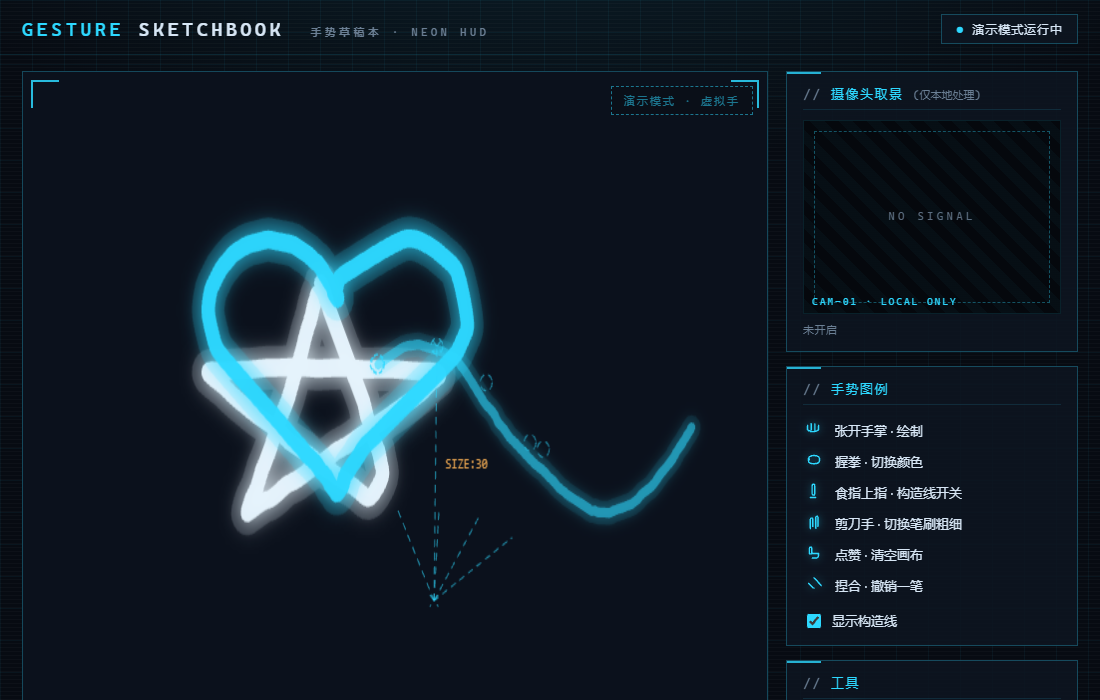
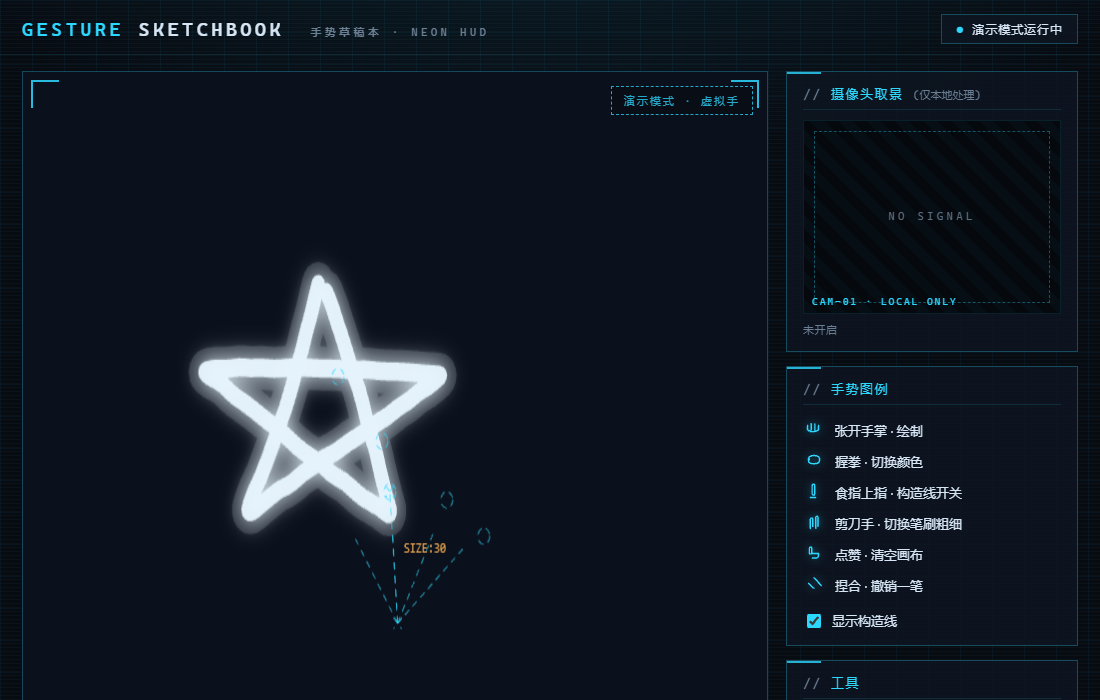
feat: 花开绽放效果——捏合聚合成六瓣花（泪滴瓣形/金色花芯/渐变花瓣），松开消散；演示时间轴与素材同步

diff --git a/js/effects.js b/js/effects.js
@@ -24,6 +24,17 @@
 
 import { CONFIG } from "./config.js";
 
+// 花瓣颜色：花芯金黄，越往外越从粉紫过渡到蓝紫；瓣尖更亮
+function petalColor(t) {
+  if (t < 0.16) return "#ffd27a";
+  const hue = 335 - (t - 0.16) * 140;
+  const light = 56 + t * 22;
+  return `hsl(${hue.toFixed(0)}, 95%, ${light.toFixed(0)}%)`;
+}
+
+// 花开绽放的会话状态（同一时间只有一朵花）
+let bloom = null;
+
 export const EFFECTS = {
   Open_Palm: {
     label: "绘制流",
@@ -124,19 +135,80 @@ export const EFFECTS = {
   },
 
   Thumb_Index: {
-    label: "引力奇点",
-    en: "WELL",
-    hint: "捏合产生引力点吸聚粒子",
+    label: "花开绽放",
+    en: "BLOOM",
+    hint: "捏合聚合成花，松开消散",
     glyph: "M6 10 L10 14 M10 14 Q11.5 15.5 12 15.5 M12 4 L15 7 M15 7 Q16.5 8.5 16.5 9 M16.5 9 L20 13",
     onEnter(hand, ps) {
-      ps.attractors.push({ x: hand.tip.x, y: hand.tip.y, r: 270, strength: 1400 });
+      bloom = { cx: hand.tip.x, cy: hand.tip.y, rot: Math.random() * Math.PI * 2, grow: 0, seeds: [] };
+      // 每瓣固定长度 => 剪影均匀；金芯实心盘 => 视觉锚点
+      const petalLen = [];
+      for (let k = 0; k < 6; k++) petalLen.push(0.94 + Math.random() * 0.16);
+      const N = 900;
+      for (let i = 0; i < N; i++) {
+        const core = i < 150;
+        const petal = Math.floor(Math.random() * 6);
+        let t, a, r, color, size;
+        if (core) {
+          // 金色花芯：实心盘，视觉中心
+          t = 0.03 + Math.random() * 0.09;
+          a = Math.random() * Math.PI * 2;
+          r = 3 + Math.random() * 26;
+          color = Math.random() < 0.3 ? "#fff3d6" : "#ffd27a";
+          size = 1.8 + Math.random() * 1.6;
+        } else {
+          // 泪滴形花瓣：瓣根窄、瓣中最宽、瓣尖收拢，瓣间留出明显间隙
+          t = 0.14 + Math.pow(Math.random(), 0.8) * 0.86;
+          const half = 0.05 + 0.26 * Math.pow(Math.sin(Math.PI * Math.min(1, t * 1.06)), 0.8);
+          a = petal * (Math.PI / 3) + (Math.random() - 0.5) * 2 * half + (Math.random() - 0.5) * 0.015;
+          r = 30 + t * 150 * petalLen[petal] * (0.92 + Math.random() * 0.16);
+          color = petalColor(t);
+          size = 1.5 + Math.random() * 1.1;
+        }
+        const seed = { a, r, t };
+        bloom.seeds.push(seed);
+        ps.spawn({
+          x: hand.tip.x + (Math.random() - 0.5) * 36,
+          y: hand.tip.y + (Math.random() - 0.5) * 36,
+          vx: (Math.random() - 0.5) * 140, vy: (Math.random() - 0.5) * 140,
+          life: 6, size,
+          color, gravity: 0, drag: 0.9,
+          tx: hand.tip.x, ty: hand.tip.y, stiff: 13 + Math.random() * 9,
+          seed,
+        });
+      }
+      ps.burst(hand.tip.x, hand.tip.y, 120, { color: hand.color, speed: [50, 200], life: [0.8, 1.6] });
     },
     onFrame(hand, ps) {
-      const a = ps.attractors[0];
-      if (a) { a.x = hand.tip.x; a.y = hand.tip.y; }
+      if (!bloom) return;
+      // 花心跟随捏合点；花朵随时间绽放并缓慢旋转
+      bloom.cx += (hand.tip.x - bloom.cx) * 0.12;
+      bloom.cy += (hand.tip.y - bloom.cy) * 0.12;
+      bloom.grow = Math.min(1, bloom.grow + 0.011);
+      bloom.rot += 0.0018;
+      for (const p of ps.parts) {
+        if (!p.seed) continue;
+        const s = p.seed;
+        const grow = Math.min(1, (bloom.grow * 1.25 - 0.1) * (1.2 - s.t * 0.25)); // 由内向外开
+        const r = s.r * Math.max(0.12, grow);
+        p.tx = bloom.cx + Math.cos(s.a + bloom.rot) * r;
+        p.ty = bloom.cy + Math.sin(s.a + bloom.rot) * r * 0.94;
+        p.life = Math.max(p.life, p.maxLife * 0.7); // 捏着不放就一直活着
+      }
     },
     onExit(hand, ps) {
-      ps.attractors.length = 0;
+      // 消散：解除弹簧目标，向外轻抛，颜色渐隐
+      for (const p of ps.parts) {
+        if (!p.seed) continue;
+        p.tx = null; p.ty = null;
+        const dx = p.x - (bloom ? bloom.cx : p.x);
+        const dy = p.y - (bloom ? bloom.cy : p.y);
+        const d = Math.hypot(dx, dy) || 1;
+        p.vx += (dx / d) * (50 + Math.random() * 170);
+        p.vy += (dy / d) * (50 + Math.random() * 170) - 20;
+        p.life = Math.min(p.life, 1.0 + Math.random() * 1.0);
+      }
+      bloom = null;
     },
   },
 };

diff --git a/js/particles.js b/js/particles.js
@@ -50,6 +50,9 @@ export class ParticleSystem {
       size: o.size || 2,
       gravity: o.gravity ?? CONFIG.particles.gravity,
       drag: o.drag ?? 0.94, // 每帧速度保留比例（帧率归一到 60fps）
+      tx: o.tx ?? null, ty: o.ty ?? null, // 弹簧目标点（聚合成形用，如花开绽放）
+      stiff: o.stiff || 0,                // 弹簧刚度：越大聚合越快
+      seed: o.seed || null,               // 效果自定义数据（如花瓣参数）
     });
   }
 
@@ -121,6 +124,12 @@ export class ParticleSystem {
         }
       }
 
+      // 弹簧追踪：粒子飞向目标点（聚合成形：花开绽放等）
+      if (p.tx != null) {
+        p.vx += (p.tx - p.x) * p.stiff * dt;
+        p.vy += (p.ty - p.y) * p.stiff * dt;
+      }
+
       // 积分
       p.vy += p.gravity * dt;
       const keep = Math.pow(p.drag, dt * 60);
@@ -132,7 +141,9 @@ export class ParticleSystem {
   }
 
   /**
-   * 渲染：拖影层淡出+叠加粒子 -> 主画布清屏合成 -> HUD 叠加（不残留重影）
+   * 渲染：拖影层淡出+叠加粒子 -> 主画布合成 -> 聚合粒子实色绘制 -> HUD
+   * 聚合粒子（带 seed）密度高，若进加色拖影层会过曝成白，因此：
+   *   主层用正常混合画实色（花形清晰），拖影层只加一点低强度辉光。
    * @param {(ctx: CanvasRenderingContext2D) => void} [hud] 手部 HUD 绘制回调
    */
   render(hud) {
@@ -142,13 +153,25 @@ export class ParticleSystem {
     tctx.fillRect(0, 0, this.w, this.h);
 
     tctx.globalCompositeOperation = "lighter";
+    const seeded = [];
     for (const p of this.parts) {
       const t = p.life / p.maxLife;
-      tctx.globalAlpha = Math.min(1, t * 1.6);
-      tctx.fillStyle = p.color;
-      tctx.beginPath();
-      tctx.arc(p.x, p.y, Math.max(0.4, p.size * (0.5 + t * 0.5)), 0, Math.PI * 2);
-      tctx.fill();
+      const a = Math.min(1, t * 1.6);
+      if (p.seed) {
+        seeded.push([p, a]);
+        // 低强度辉光进拖影层，避免密集粒子互相加成过曝
+        tctx.globalAlpha = a * 0.08;
+        tctx.fillStyle = p.color;
+        tctx.beginPath();
+        tctx.arc(p.x, p.y, p.size * 1.8, 0, Math.PI * 2);
+        tctx.fill();
+      } else {
+        tctx.globalAlpha = a;
+        tctx.fillStyle = p.color;
+        tctx.beginPath();
+        tctx.arc(p.x, p.y, Math.max(0.4, p.size * (0.5 + t * 0.5)), 0, Math.PI * 2);
+        tctx.fill();
+      }
     }
     tctx.globalAlpha = 1;
     tctx.globalCompositeOperation = "source-over";
@@ -156,6 +179,17 @@ export class ParticleSystem {
     const ctx = this.ctx;
     ctx.clearRect(0, 0, this.w, this.h);
     ctx.drawImage(this.trail, 0, 0, this.w, this.h);
+
+    // 聚合粒子：主画布实色，花形清晰可辨
+    ctx.globalCompositeOperation = "source-over";
+    for (const [p, a] of seeded) {
+      ctx.globalAlpha = Math.min(1, a * 0.95);
+      ctx.fillStyle = p.color;
+      ctx.beginPath();
+      ctx.arc(p.x, p.y, Math.max(0.6, p.size * 0.95), 0, Math.PI * 2);
+      ctx.fill();
+    }
+    ctx.globalAlpha = 1;
 
     if (hud) hud(ctx);
   }

diff --git a/js/demo.js b/js/demo.js
@@ -6,14 +6,13 @@
 // ============================================================
 
 const SEGMENTS = [
-  { t0: 0.2,  t1: 3.6,  gesture: "Open_Palm",   path: "star",  at: { x: 0.52, y: 0.50 } },
-  { t0: 3.6,  t1: 4.4,  gesture: "Closed_Fist", at: { x: 0.55, y: 0.48 } },
-  { t0: 4.4,  t1: 5.2,  gesture: "Pointing_Up", at: { x: 0.52, y: 0.46 } },
-  { t0: 5.2,  t1: 8.4,  gesture: "Open_Palm",   path: "heart", at: { x: 0.50, y: 0.42 } },
-  { t0: 8.4,  t1: 9.2,  gesture: "Victory",     at: { x: 0.50, y: 0.48 } },
-  { t0: 9.2,  t1: 12.4, gesture: "Open_Palm",   path: "wave",  at: { x: 0.50, y: 0.52 } },
-  { t0: 12.4, t1: 13.2, gesture: "Thumb_Up",    at: { x: 0.55, y: 0.45 } },
-  { t0: 13.2, t1: 15.5, gesture: "None",        at: { x: 0.5,  y: 0.5 } },
+  { t0: 0.2,  t1: 3.4,  gesture: "Open_Palm",   path: "star",  at: { x: 0.52, y: 0.50 } },
+  { t0: 3.4,  t1: 4.2,  gesture: "Closed_Fist", at: { x: 0.55, y: 0.48 } },
+  { t0: 4.2,  t1: 5.0,  gesture: "Pointing_Up", at: { x: 0.52, y: 0.46 } },
+  { t0: 5.0,  t1: 8.2,  gesture: "Open_Palm",   path: "heart", at: { x: 0.50, y: 0.42 } },
+  { t0: 8.2,  t1: 9.0,  gesture: "Victory",     at: { x: 0.50, y: 0.48 } },
+  { t0: 9.0,  t1: 14.2, gesture: "Thumb_Index", at: { x: 0.50, y: 0.46 } },
+  { t0: 14.2, t1: 16.5, gesture: "None",        at: { x: 0.5,  y: 0.5 } },
 ];
 
 // 手部关键点模板（单位坐标，y 向下为正在画布上的方向）
@@ -30,6 +29,14 @@ const POSES = {
     0: [0, 0.60],
     1: [-0.20, 0.42], 2: [-0.18, 0.32], 3: [-0.10, 0.27], 4: [-0.02, 0.25],
     5: [0.16, 0.30], 6: [0.21, 0.26], 7: [0.23, 0.21], 8: [0.24, 0.17],
+    9: [0.00, 0.28], 10: [0.02, 0.24], 11: [0.02, 0.19], 12: [0.02, 0.15],
+    13: [-0.16, 0.30], 14: [-0.19, 0.26], 15: [-0.20, 0.21], 16: [-0.21, 0.17],
+    17: [-0.29, 0.34], 18: [-0.33, 0.32], 19: [-0.35, 0.30], 20: [-0.36, 0.29],
+  },
+  pinch: {
+    0: [0, 0.60],
+    1: [-0.20, 0.42], 2: [-0.24, 0.32], 3: [-0.16, 0.18], 4: [0.06, -0.04],
+    5: [0.16, 0.28], 6: [0.20, 0.06], 7: [0.22, -0.10], 8: [0.23, -0.26],
     9: [0.00, 0.28], 10: [0.02, 0.24], 11: [0.02, 0.19], 12: [0.02, 0.15],
     13: [-0.16, 0.30], 14: [-0.19, 0.26], 15: [-0.20, 0.21], 16: [-0.21, 0.17],
     17: [-0.29, 0.34], 18: [-0.33, 0.32], 19: [-0.35, 0.30], 20: [-0.36, 0.29],
@@ -91,7 +98,7 @@ function pathPoint(kind, t, seg) {
   return { x: seg.at.x, y: seg.at.y };
 }
 
-const POSE_NAME = { Open_Palm: "open", Closed_Fist: "fist", Pointing_Up: "point", Victory: "victory", Thumb_Up: "thumb", None: "open" };
+const POSE_NAME = { Open_Palm: "open", Closed_Fist: "fist", Pointing_Up: "point", Victory: "victory", Thumb_Up: "thumb", Thumb_Index: "pinch", None: "open" };
 
 // 生成 21 个关键点：模板 + 缩放 + 位置 + 轻微呼吸抖动
 function buildHand(x, y, gesture, t) {

diff --git a/js/app.js b/js/app.js
@@ -197,7 +197,8 @@ function drawHud(ctx, hand) {
   const wrist = P(0), midTip = P(12);
   ctx.font = '11px Consolas, "Cascadia Code", monospace';
   ctx.fillStyle = "rgba(255, 180, 84, .9)";
-  ctx.fillText(`SIZE:${Math.round(hand.size * 100)}`, (wrist.x + midTip.x) / 2 + 10, (wrist.y + midTip.y) / 2 - 4);
+  // 读数标注放在手腕附近，避免压住花心等画面主体
+  ctx.fillText(`SIZE:${Math.round(hand.size * 100)}`, wrist.x + 12, wrist.y + 16);
   ctx.restore();
 }
 

diff --git a/README.md b/README.md
@@ -1,6 +1,6 @@
 # 手势草稿本 · Gesture Sketchbook
 
-用摄像头手势驱动霓虹粒子的 Web 应用（默认粒子模式，可一键切回笔迹模式）。张开手掌 = 指尖喷出粒子流，握拳 = 能量爆发，点赞 = 超新星清空——不需要任何外设，一个浏览器就够。深空底色 + 青色辉光 + HUD 取景框，科技感拉满。
+用摄像头手势驱动霓虹粒子的 Web 应用（默认粒子模式，可一键切回笔迹模式）。张开手掌 = 指尖喷出粒子流，握拳 = 能量爆发，捏合 = 指尖聚合一朵缓缓绽放的花、松开即消散——不需要任何外设，一个浏览器就够。深空底色 + 青色辉光 + HUD 取景框，科技感拉满。
 
 ![演示动图](assets/demo.gif)
 
@@ -27,7 +27,7 @@
 | ☝ 食指上指 | 只伸食指 | 指尖向上喷射离子喷泉 | 打开/关闭构造线 |
 | ✌ 剪刀手 | 伸出食指+中指 | 双指间生成量子涡流 | 切换笔刷粗细 |
 | 👍 点赞 | 竖起拇指 | 超新星爆发并清空粒子 | 清空画布 |
-| 🤏 捏合 | 拇指食指捏在一起 | 引力奇点吸聚粒子 | 撤销上一笔 |
+| 🤏 捏合 | 拇指食指捏在一起 | 聚合成一朵缓缓绽放的花，松开消散 | 撤销上一笔 |
 
 除了手势，**动作本身也有效**：快速挥动手掌会带起周围的粒子（掌风气流）。
 
